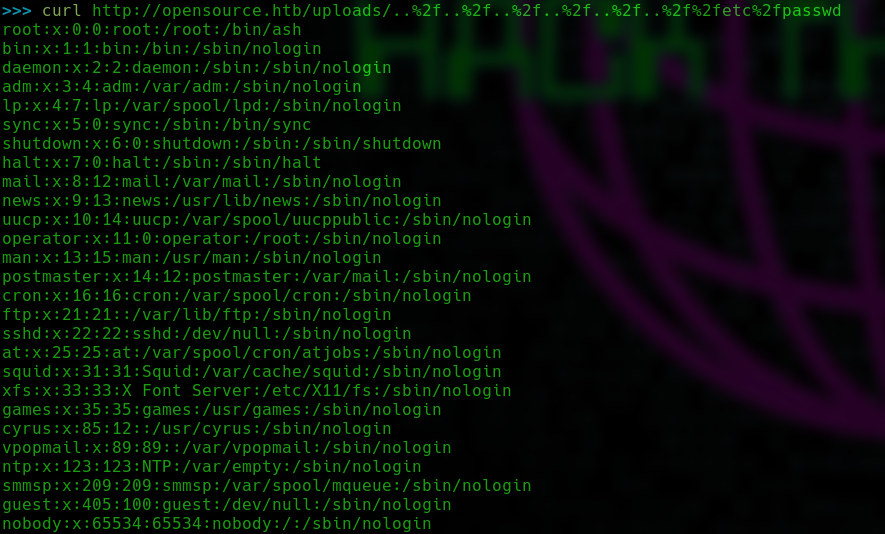
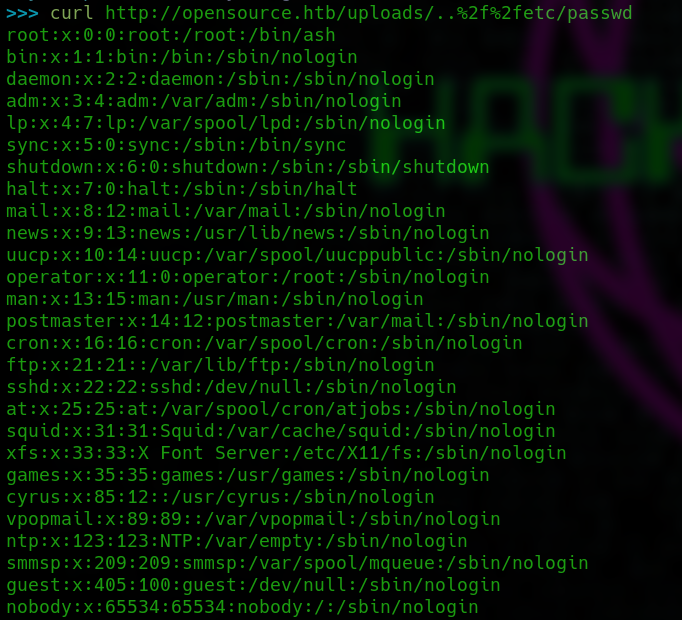
Fixed something I got wrong

diff --git a/_posts/2022-10-08-opensource.md b/_posts/2022-10-08-opensource.md
@@ -7,6 +7,9 @@ tags: [git, LFI, RCE, Docker, Port Forwarding, Tunneling, git hooks]
 ---
 ![Opensource](/assets/img/HTB-opensource/OpenSource.png)
 
+# Summary
+This machine's theme is that it is an opensource file transfer app, where one user can upload a file and they would get a URL they can share with others to download. Vulnrabilites in the code made it possible for an attacker to upload a backdoor and get command execution on a Docker container. Where the attacker could then pivot to a filtered Gitea service and log in to one of the users using found credentials in a previous commit in the git repository. Privilage escaltion revolves around a custom script ran as root to commit and push the home directory of the comprised user, that can be exploited by adding a malicious pre-commit hook.
+
 # Enumration
 
 ## Port scanning 
@@ -60,14 +63,33 @@ This function sanitizes the file name from the users post request (uploading a f
 
 We can see that it only filters `../`
 
-This can be bypassed by URL encoding the payload
+And if we check out how the path is constructed in `views.py`. We see that it just uses `os.path.join()`
+
+```python
+@app.route('/upcloud', methods=['GET', 'POST'])
+def upload_file():
+    if request.method == 'POST':
+        f = request.files['file']
+        file_name = get_file_name(f.filename)
+        file_path = os.path.join(os.getcwd(), "public", "uploads", file_name) # Vulnerable line
+        f.save(file_path)
+        return render_template('success.html', file_url=request.host_url + "uploads/" + file_name)
+    return render_template('upload.html')
+```
+And that is vulnerable because, if we looked at how `os.path.join()` works
+![path vuln](/assets/img/HTB-opensource/os_path_vuln.png)
+
+We can see that if we add a `/` to any argument it will ignore all the arguments that came before and start from the argument that starts with `/`.
+
+So that means we could control the file path and bypass the LFI filter by just adding a `/` making it an absolute path.
 ```shell
-curl http://opensource.htb/uploads/..%2f..%2f..%2f..%2f..%2f..%2f%2fetc%2fpasswd
+curl http://opensource.htb/uploads/..%2f%2fetc/passwd
 ```
 ![passwd](/assets/img/HTB-opensource/etc-passwd.png)
+
 This does return `/etc/passwd` from the target machine.
 
-> Using this LFI I have tried generating the werkzueg pin code but that turned out to be a rabbit hole, because some files we needed for PIN generation were not available.
+> Using this LFI I have tried generating the werkzueg pin code but I could not get that to work.
 
 ---
 # Foothold
@@ -85,7 +107,7 @@ def shell():
     processed_cmd = os.system(cmd)
     return processed_cmd
 ```
-added this function to `views.py` which will take any data we send with as `POST` request and process it as a command and send it back.
+added this function to `views.py` which will take any data we send with as `POST` request and process it as a command and send it back. Basically making ourselves a backdoor.
 
 Now we need to upload `views.py` but uploading it normally will place it in `/uploads` and that would be useless.
 
